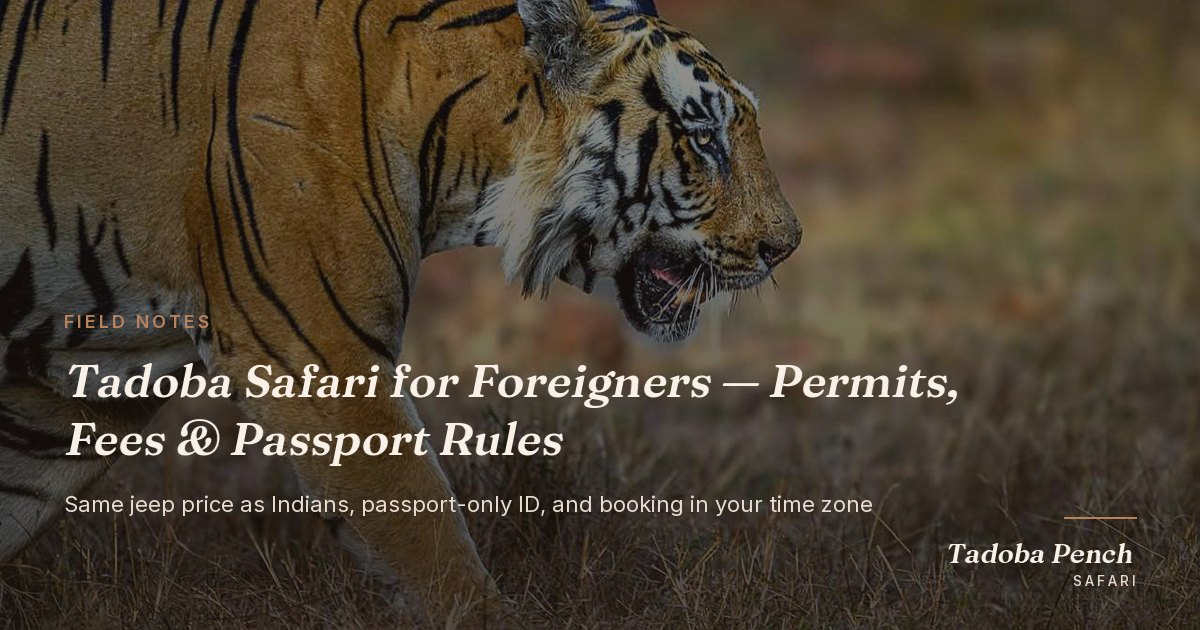
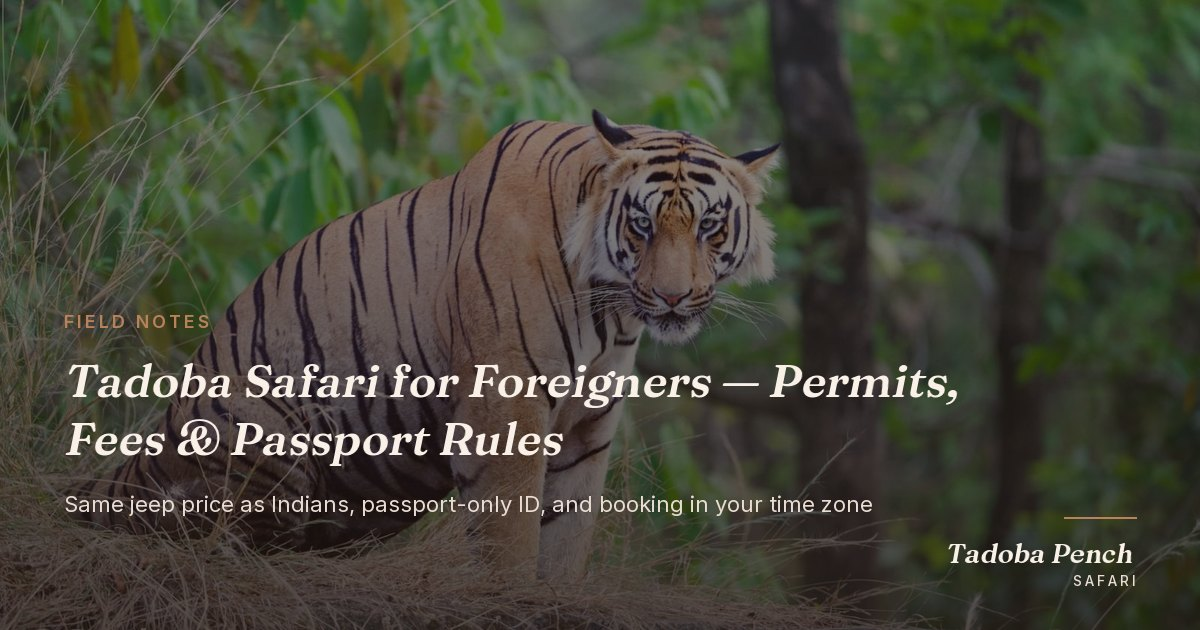
New tiger photos as heroes for the 3 October blog posts
- Foreigners post: Partha's seated tiger (credit "Photo © Partha")
- Winter post: Varun's dry-grass walking tiger (credit "Photo © Varun")
- Kids post: tiger resting in green grass
- Spare: tiger walking toward camera (16:9 + full portrait) for later use

Photos cropped to 16:9 with the tiger centred so the blog's 21:9
desktop crop keeps the head in frame. New optional BlogPost.heroCredit
renders a small credit over the hero. OG cards regenerated.

Photos used with the photographers' permission (per site owner).

diff --git a/data/blog.ts b/data/blog.ts
@@ -9,6 +9,8 @@ export type BlogPost = {
   content: string;
   // AEO: a 1-2 sentence direct answer rendered as a TLDR box at the top
   // of the post. Optional but recommended — LLMs extract this verbatim.
+  // Photographer credit shown over the hero, e.g. 'Partha'. Omit for own photos.
+  heroCredit?: string;
   tldr?: string;
   // 3-5 bullet 'key facts' rendered alongside the TLDR.
   keyFacts?: string[];
@@ -1369,7 +1371,8 @@ Our [Pench Classic — 3 Nights](/packages/pench-classic-3n) covers Turia + Karm
     title: 'Tadoba in Winter (Nov–Feb): Christmas & New Year Safari Guide 2026',
     excerpt:
       'Winter is Tadoba\'s most comfortable season and its most crowded fortnight. Official safari timings, what the cold actually feels like in an open jeep, sighting odds, and how to still get Christmas and New Year permits in 2026.',
-    heroImage: '/images/wildlife-tiger-grass-2.jpg',
+    heroImage: '/images/blog-tiger-varun-dry-grass.jpg',
+    heroCredit: 'Varun',
     publishedAt: '2026-10-12',
     readingMinutes: 8,
     keywords: [
@@ -1467,7 +1470,8 @@ Our three-night Tadoba packages include permits, jeeps, naturalist, resort, all 
     title: 'Tadoba Safari for Foreigners: Permits, Fees, Passport Rules (2026)',
     excerpt:
       'Planning a Tadoba tiger safari from abroad? What foreign nationals actually pay (regular safaris cost the same as for Indians), the passport-only ID rule, when booking opens in your time zone, and how to get to Tadoba from an international flight.',
-    heroImage: '/images/gate-tiger-closeup.jpg',
+    heroImage: '/images/blog-tiger-partha-gaze.jpg',
+    heroCredit: 'Partha',
     publishedAt: '2026-10-12',
     readingMinutes: 7,
     keywords: [
@@ -1563,7 +1567,7 @@ We book permits by passport name, meet you at Nagpur airport and run every safar
     title: 'Tadoba Safari with Kids: Age Rules, Timings & Family Tips (2026)',
     excerpt:
       'Children under 8 ride free on a Tadoba safari — up to two per jeep. The official age rules, how early you really need to get up, how to keep kids happy for four hours in an open jeep, and which trip suits which age.',
-    heroImage: '/images/pkg-pench-family.jpg',
+    heroImage: '/images/blog-tiger-resting-grass.jpg',
     publishedAt: '2026-10-12',
     readingMinutes: 7,
     keywords: [

diff --git a/app/blog/[slug]/page.tsx b/app/blog/[slug]/page.tsx
@@ -238,6 +238,9 @@ export default async function BlogPostPage({ params }: { params: Promise<{ slug:
         <div className="relative aspect-[16/9] md:aspect-[21/9] overflow-hidden">
           <Image src={post.heroImage} alt={`${post.title} — Tadoba Pench Safari blog`} priority className="absolute inset-0 w-full h-full object-cover" width={1600} height={686} />
           <div className="absolute inset-0 bg-gradient-to-t from-bark via-bark/40 to-transparent" />
+          {post.heroCredit && (
+            <p className="absolute bottom-2 right-3 text-[11px] text-bone/70">Photo © {post.heroCredit}</p>
+          )}
         </div>
 
         <div className="max-w-3xl mx-auto px-4 sm:px-6 lg:px-8 py-16">
